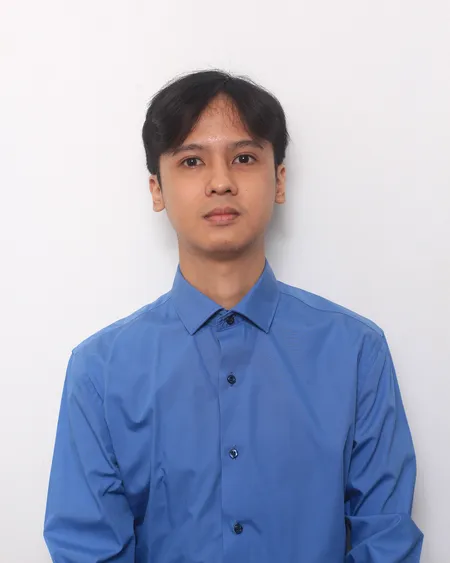
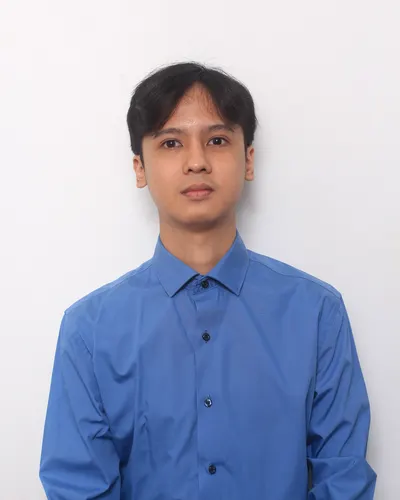
Fix fragile reveal animation, polish design, add Playwright QA tooling
- Add a max-delay fallback so reveal-on-scroll can never leave a
  section permanently hidden regardless of scroll speed/pattern.
- Rebalance hero: photo shrunk from a full-height half-column image
  to a modest ~320px card with an asymmetric 7/5 grid, plus a subtle
  offset accent frame instead of dominating the fold.
- Re-encode hero photo at the resolution it's actually displayed at
  (640x800 / 400x500 instead of 900x1125), cutting file size ~40%.
- Replace the redundant repeated-email contact card with an
  availability status + CTA.
- Add global focus-visible outline and a hover accent on experience
  role headings for consistency with the rest of the interactive UI.
- Add Playwright as a proper devDependency with scripts/screenshot.js
  for repeatable visual QA across languages/viewports.

diff --git a/src/templates/sections/hero.js b/src/templates/sections/hero.js
@@ -2,8 +2,8 @@ function hero(content) {
   const { hero: h } = content;
   return `
 <section id="hero" class="relative pt-28 md:pt-36 pb-16 md:pb-24 px-margin-mobile md:px-margin-desktop">
-  <div class="max-w-[1400px] mx-auto grid md:grid-cols-2 gap-xl md:gap-xxl items-center">
-    <div class="order-2 md:order-1 reveal">
+  <div class="max-w-[1400px] mx-auto grid md:grid-cols-12 gap-xl md:gap-xxl items-center">
+    <div class="order-2 md:order-1 md:col-span-7 reveal">
       <div class="flex items-center gap-md mb-lg">
         <span class="w-8 h-[1px] bg-on-surface/40"></span>
         <span class="font-sans text-label-md text-on-surface-variant tracking-widest">${h.eyebrow}</span>
@@ -22,16 +22,19 @@ function hero(content) {
           .join("")}
       </div>
       <div class="flex flex-wrap gap-md">
-        <a href="${h.ctaPrimary.href}" class="inline-flex items-center justify-center min-h-[44px] bg-primary text-on-primary px-xl py-md rounded-full font-sans text-label-lg hover:bg-primary-container transition-colors">${h.ctaPrimary.label}</a>
-        <a href="${h.ctaSecondary.href}" class="inline-flex items-center justify-center min-h-[44px] border border-outline-variant text-on-surface px-xl py-md rounded-full font-sans text-label-lg hover:bg-surface-container-low transition-colors">${h.ctaSecondary.label}</a>
+        <a href="${h.ctaPrimary.href}" class="inline-flex items-center justify-center min-h-[44px] bg-primary text-on-primary px-xl py-md rounded-full font-sans text-label-lg hover:bg-primary-container hover:-translate-y-0.5 transition-all">${h.ctaPrimary.label}</a>
+        <a href="${h.ctaSecondary.href}" class="inline-flex items-center justify-center min-h-[44px] border border-outline-variant text-on-surface px-xl py-md rounded-full font-sans text-label-lg hover:bg-surface-container-low hover:-translate-y-0.5 transition-all">${h.ctaSecondary.label}</a>
       </div>
     </div>
-    <div class="order-1 md:order-2 reveal">
-      <div class="relative mx-auto max-w-sm md:max-w-none rounded-card overflow-hidden border border-outline-variant shadow-card aspect-[4/5]">
-        <picture>
-          <source srcset="/img/hero-yosya-sm.webp" media="(max-width: 640px)" />
-          <img src="/img/hero-yosya.webp" alt="${h.photoAlt}" class="w-full h-full object-cover" width="900" height="1125" loading="eager" />
-        </picture>
+    <div class="order-1 md:order-2 md:col-span-5 reveal">
+      <div class="relative max-w-[260px] sm:max-w-[300px] md:max-w-[320px] mx-auto md:ml-auto md:mr-0">
+        <div class="absolute -top-4 -right-4 w-full h-full rounded-card bg-trust/[0.06] border border-trust/10 -z-10"></div>
+        <div class="relative rounded-card overflow-hidden border border-outline-variant shadow-card aspect-[4/5]">
+          <picture>
+            <source srcset="/img/hero-yosya-sm.webp" media="(max-width: 640px)" />
+            <img src="/img/hero-yosya.webp" alt="${h.photoAlt}" class="w-full h-full object-cover" width="900" height="1125" loading="eager" />
+          </picture>
+        </div>
       </div>
     </div>
   </div>

diff --git a/scripts/screenshot.js b/scripts/screenshot.js
@@ -1,0 +1,51 @@
+// Usage: node scripts/screenshot.js [baseUrl]
+// Defaults to http://localhost:4173. Captures EN + ID at desktop/mobile.
+const path = require("path");
+const fs = require("fs");
+const { chromium } = require("playwright");
+
+const BASE_URL = process.argv[2] || "http://localhost:4173";
+const OUT_DIR = path.join(__dirname, "..", ".qa-screenshots");
+
+const targets = [
+  { name: "en-desktop", url: "/", viewport: { width: 1440, height: 900 } },
+  { name: "en-mobile", url: "/", viewport: { width: 390, height: 844 } },
+  { name: "id-desktop", url: "/id", viewport: { width: 1440, height: 900 } },
+  { name: "id-mobile", url: "/id", viewport: { width: 390, height: 844 } },
+];
+
+async function revealAll(page) {
+  await page.evaluate(async () => {
+    const step = 400;
+    for (let y = 0; y < document.body.scrollHeight; y += step) {
+      window.scrollTo(0, y);
+      await new Promise((r) => setTimeout(r, 50));
+    }
+    window.scrollTo(0, 0);
+  });
+}
+
+async function run() {
+  fs.mkdirSync(OUT_DIR, { recursive: true });
+  const browser = await chromium.launch();
+  const errors = [];
+
+  for (const t of targets) {
+    const page = await browser.newPage({ viewport: t.viewport });
+    page.on("pageerror", (e) => errors.push(`${t.name}: ${e.message}`));
+    await page.goto(BASE_URL + t.url, { waitUntil: "networkidle" });
+    await revealAll(page);
+    await page.waitForTimeout(300);
+    await page.screenshot({ path: path.join(OUT_DIR, `${t.name}.png`), fullPage: true });
+    await page.close();
+  }
+
+  await browser.close();
+  console.log(`[screenshot] saved to ${OUT_DIR}`);
+  if (errors.length) {
+    console.error("[screenshot] console/page errors:", errors);
+    process.exitCode = 1;
+  }
+}
+
+run();

diff --git a/src/templates/sections/contact.js b/src/templates/sections/contact.js
@@ -47,8 +47,12 @@ function contact(content) {
     </div>
     <div class="md:col-span-5">
       <div class="bg-surface-container-low border border-outline-variant rounded-card p-xl h-full flex flex-col justify-center items-start">
-        <p class="font-serif text-headline-sm text-on-surface mb-lg">${c.email}</p>
-        <a href="mailto:${c.email}" class="inline-flex items-center justify-center min-h-[44px] bg-primary text-on-primary px-xl py-md rounded-full font-sans text-label-lg hover:bg-primary-container transition-colors">${c.ctaEmail}</a>
+        <span class="inline-flex items-center gap-xs px-md py-xs rounded-full bg-growth/10 text-growth font-sans text-label-md mb-lg">
+          <span class="w-1.5 h-1.5 rounded-full bg-growth animate-pulse"></span>
+          ${c.availability}
+        </span>
+        <p class="font-serif text-headline-sm text-on-surface mb-lg">${c.availabilityNote}</p>
+        <a href="mailto:${c.email}" class="inline-flex items-center justify-center min-h-[44px] bg-primary text-on-primary px-xl py-md rounded-full font-sans text-label-lg hover:bg-primary-container hover:-translate-y-0.5 transition-all">${c.ctaEmail}</a>
       </div>
     </div>
   </div>

diff --git a/scripts/prepare-image.js b/scripts/prepare-image.js
@@ -16,16 +16,19 @@ async function run() {
   // out first so the resized 4:5 portrait is framed on the face/shoulders.
   const cropped = sharp(SOURCE).extract({ left: 0, top: 280, width: 1067, height: 1320 });
 
+  // Hero photo now renders at a modest max-width (~320px CSS) in the layout,
+  // so a 2x-retina-sized source is plenty — no need for the original's full
+  // 900px width, which only bloated the file for no visible gain.
   await cropped
     .clone()
-    .resize({ width: 900, height: 1125, fit: "cover", position: "top" })
-    .webp({ quality: 82 })
+    .resize({ width: 640, height: 800, fit: "cover", position: "top" })
+    .webp({ quality: 80 })
     .toFile(path.join(OUT_DIR, "hero-yosya.webp"));
 
   await cropped
     .clone()
-    .resize({ width: 450, height: 563, fit: "cover", position: "top" })
-    .webp({ quality: 80 })
+    .resize({ width: 400, height: 500, fit: "cover", position: "top" })
+    .webp({ quality: 78 })
     .toFile(path.join(OUT_DIR, "hero-yosya-sm.webp"));
 
   console.log("[prepare-image] hero-yosya.webp + hero-yosya-sm.webp generated.");

diff --git a/public/js/main.js b/public/js/main.js
@@ -1,7 +1,10 @@
 (function () {
   "use strict";
 
-  // Reveal-on-scroll
+  // Reveal-on-scroll. Belt-and-suspenders: an IntersectionObserver drives the
+  // nice staggered fade-in, but a max-delay fallback guarantees every section
+  // becomes visible regardless of scroll speed/pattern or observer timing, so
+  // content can never get stuck at opacity:0 for a real visitor.
   var revealEls = document.querySelectorAll(".reveal");
   if ("IntersectionObserver" in window && revealEls.length) {
     var observer = new IntersectionObserver(
@@ -13,10 +16,16 @@
           }
         });
       },
-      { threshold: 0.12, rootMargin: "0px 0px -40px 0px" }
+      { threshold: 0, rootMargin: "0px 0px 200px 0px" }
     );
     revealEls.forEach(function (el) {
       observer.observe(el);
+    });
+
+    revealEls.forEach(function (el, i) {
+      setTimeout(function () {
+        el.classList.add("active");
+      }, 1200 + i * 15);
     });
   } else {
     revealEls.forEach(function (el) {

diff --git a/src/templates/sections/experience.js b/src/templates/sections/experience.js
@@ -1,4 +1,4 @@
-const { accentBorderTop } = require("../accent");
+const { accentBorderTop, accentText } = require("../accent");
 
 function experience(content) {
   const { experience: e } = content;
@@ -19,7 +19,7 @@ function experience(content) {
           <p class="font-sans text-title-md text-on-surface">${r.title}</p>
         </div>
         <div class="md:col-span-8 md:col-start-5">
-          <h3 class="font-serif text-headline-sm text-on-surface mb-md">${r.company}</h3>
+          <h3 class="font-serif text-headline-sm text-on-surface mb-md transition-colors group-hover:${accentText[r.accent]}">${r.company}</h3>
           <p class="font-sans text-body-lg text-on-surface-variant mb-lg">${r.summary}</p>
           <ul class="space-y-sm font-sans text-body-md text-on-surface-variant border-l border-outline-variant pl-md">
             ${r.bullets.map((b) => `<li>${b}</li>`).join("")}

diff --git a/src/styles/input.css b/src/styles/input.css
@@ -6,6 +6,13 @@
   html {
     -webkit-font-smoothing: antialiased;
   }
+
+  a:focus-visible,
+  button:focus-visible {
+    outline: 2px solid theme("colors.trust");
+    outline-offset: 2px;
+    border-radius: 2px;
+  }
 }
 
 @layer utilities {
